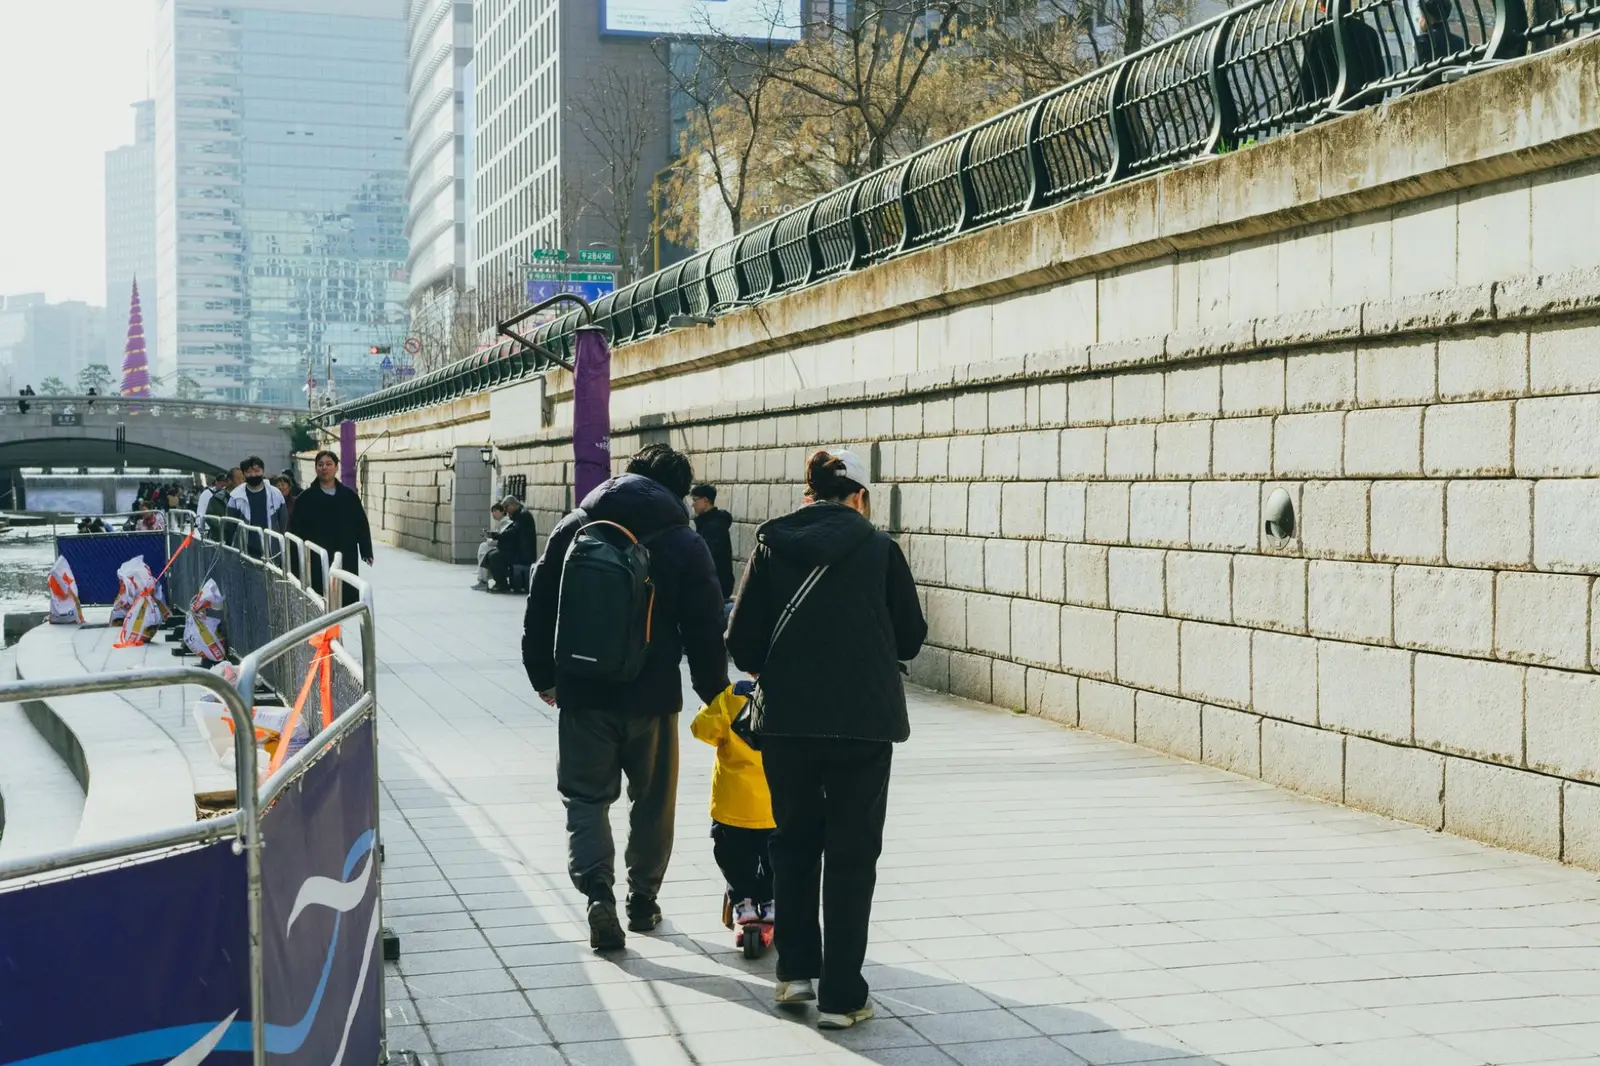
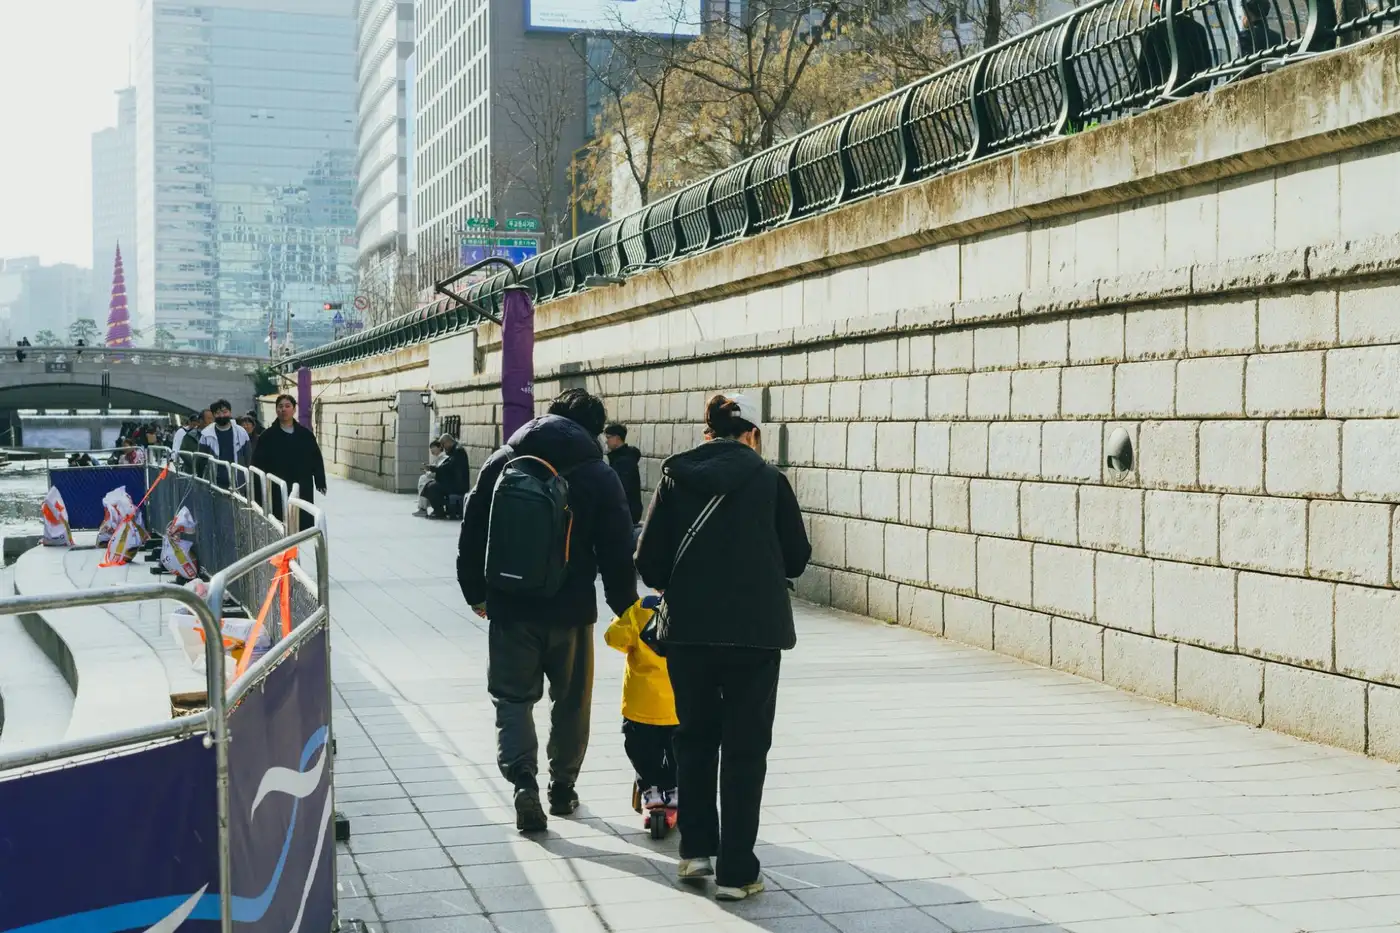
perf: 히어로 이미지 preload(fetchpriority high)+127KB 경량화, 폰트 조기 preload (LCP 개선)

diff --git a/app/layout.tsx b/app/layout.tsx
@@ -64,6 +64,14 @@ export default function RootLayout({
     <html lang="ko">
       <head>
         <link rel="preconnect" href="https://cdn.jsdelivr.net" crossOrigin="anonymous" />
+        {/* 히어로 LCP 이미지 우선 프리로드 */}
+        <link rel="preload" as="image" href="/slides/family.webp" fetchPriority="high" />
+        {/* 폰트: 조기 프리로드 후 적용 (렌더 차단 최소화) */}
+        <link
+          rel="preload"
+          as="style"
+          href="https://cdn.jsdelivr.net/gh/orioncactus/pretendard@v1.3.9/dist/web/variable/pretendardvariable-dynamic-subset.min.css"
+        />
         <link
           rel="stylesheet"
           href="https://cdn.jsdelivr.net/gh/orioncactus/pretendard@v1.3.9/dist/web/variable/pretendardvariable-dynamic-subset.min.css"
